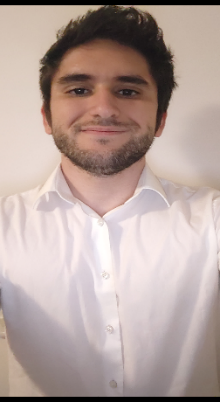
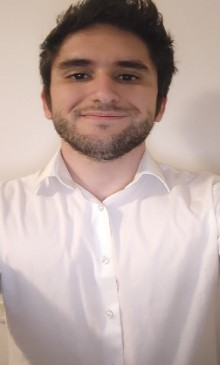
changed layout

diff --git a/src/data/user.js b/src/data/user.js
@@ -17,13 +17,12 @@ const INFO = {
 	homepage: {
 		title: "Full-stack web developer.",
 		description:
-			"Hello! I am MERN fullstack web developer ",
+			"Hello! I am fullstack web developer that loves to learn new technologies and tackle exciting projects! Bellow are some samples of some of my more recent projects.",
 	},
 
 	about: {
-		title: "I’m Alejandro Dighiero. I Live in Montevideo Uruguay, where I spend my time learning new technologies and designing great dynamic websites!",
-		description:
-			"I've worked on a variety of projects over the years and I'm proud of the progress I've made. Many of these projects are open-source and available for others to explore and contribute to. If you're interested in any of the projects I've worked on, please feel free to check out the code and suggest any improvements or enhancements you might have in mind. Collaborating with others is a great way to learn and grow, and I'm always open to new ideas and feedback.",
+		title: "I’m Alejandro Dighiero. I Live in Montevideo Uruguay, where I spend my time learning new technologies!",
+		description:"My experience spans a wide range of projects, many of which I've made publicly available as open-source code. This allows others to not only explore my work but also contribute their own ideas and improvements. If you're interested, feel free to dive into the code and share any thoughts on how it could be enhanced. Collaboration is a powerful tool for learning and development, and I'm always eager to hear new perspectives and feedback."
 	},
 
 	articles: {
@@ -60,14 +59,6 @@ const INFO = {
 			link: "https://github.com/adighiero1/True-Codes-Final-Project",
 		},
 
-		// {
-		// 	title: "Project 4",
-		// 	description:
-		// 		"Lorem ipsum dolor sit amet. Et incidunt voluptatem ex tempore repellendus qui dicta nemo sit deleniti minima.",
-		// 	logo: "https://cdn.jsdelivr.net/npm/programming-languages-logos/src/javascript/javascript.png",
-		// 	linkText: "View Project",
-		// 	link: "https://github.com",
-		// },
 	],
 };
 

diff --git a/src/components/about/socials.jsx b/src/components/about/socials.jsx
@@ -1,6 +1,5 @@
 import React from "react";
 import { FontAwesomeIcon } from "@fortawesome/react-fontawesome";
-import { faEnvelope } from "@fortawesome/free-solid-svg-icons";
 import {
 	faTwitter,
 	faGithub,
@@ -15,17 +14,6 @@ import "./styles/socials.css";
 const Socials = () => {
 	return (
 		<div className="socials">
-			<div className="social">
-				<a href={INFO.socials.twitter} target="_blank" rel="noreferrer">
-					<div className="social-icon">
-						<FontAwesomeIcon
-							icon={faTwitter}
-							className="social-icon"
-						/>
-					</div>
-					<div className="social-text">Follow on Twitter</div>
-				</a>
-			</div>
 
 			<div className="social">
 				<a href={INFO.socials.github} target="_blank" rel="noreferrer">
@@ -71,21 +59,6 @@ const Socials = () => {
 				</a>
 			</div>
 
-			<div className="email">
-				<div className="email-wrapper">
-					<a
-						href={`mailto:${INFO.main.email}`}
-						target="_blank"
-						rel="noreferrer"
-					>
-						<div className="social-icon">
-							<FontAwesomeIcon icon={faEnvelope} />
-						</div>
-
-						<div className="social-text">{INFO.main.email}</div>
-					</a>
-				</div>
-			</div>
 		</div>
 	);
 };

diff --git a/src/pages/contact.jsx b/src/pages/contact.jsx
@@ -54,11 +54,8 @@ const Contact = () => {
 							</a>
 							. I make an effort to respond to all messages within
 							24 hours, although it may take me longer during busy
-							periods. Alternatively, you can use the contact form
-							on my website to get in touch. Simply fill out the
-							required fields and I'll get back to you as soon as
-							possible. Finally, if you prefer to connect on
-							social media, you can find me on{" "}
+							periods. Finally, if you prefer to connect on
+							social media, you can find me on twitter here:{" "}
 							<a
 								href={INFO.socials.instagram}
 								target="_blank"

diff --git a/src/pages/styles/about.css b/src/pages/styles/about.css
@@ -52,7 +52,8 @@
 	overflow: hidden;
 	width: 100%;
 	border-radius: 10%;
-	transform: rotate(3deg);
+	/* transform: rotate(3deg); */
+	margin-left: 50px;
 }
 
 .about-image-wrapper img {
@@ -63,6 +64,7 @@
 .about-socials {
 	padding-top: 50px;
 	padding-bottom: 50px;
+	margin-left: 170px;
 }
 
 .about-socials-mobile {

diff --git a/src/pages/about.jsx b/src/pages/about.jsx
@@ -54,7 +54,7 @@ const About = () => {
 								<div className="about-image-container">
 									<div className="about-image-wrapper">
 										<img
-											src="about.jpg"
+											src="about2.avif"
 											alt="about"
 											className="about-image"
 										/>

diff --git a/src/pages/styles/homepage.css b/src/pages/styles/homepage.css
@@ -44,7 +44,10 @@
 .homepage-image-wrapper {
 	overflow: hidden;
 	border-radius: 10%;
-	transform: rotate(3deg);
+	
+	/* transform: rotate(3deg); */
+	margin-bottom: 300px;
+	
 }
 
 .homepage-image-wrapper img {

diff --git a/src/components/common/styles/navBar.css b/src/components/common/styles/navBar.css
@@ -11,7 +11,7 @@
 	display: flex;
 	justify-content: center;
 	align-items: center;
-	position: fixed;
+	position: relative;
 	top: 3vh;
 	z-index: 999;
 }

diff --git a/src/components/common/styles/footer.css b/src/components/common/styles/footer.css
@@ -6,6 +6,8 @@
 	margin-top: 50px;
 	padding-bottom: 25px;
 	align-items: center;
+	justify-content: center;
+	padding-left: 300px;
 }
 
 .footer-links,
